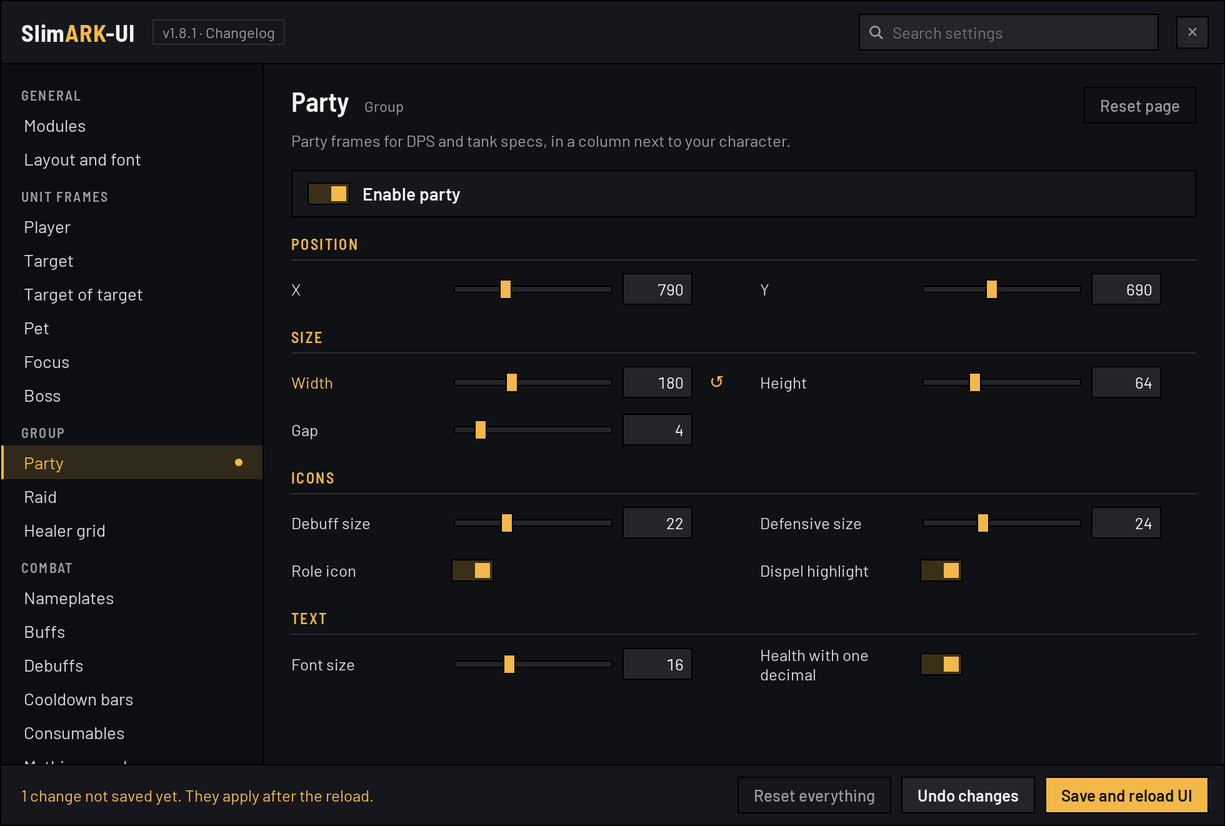
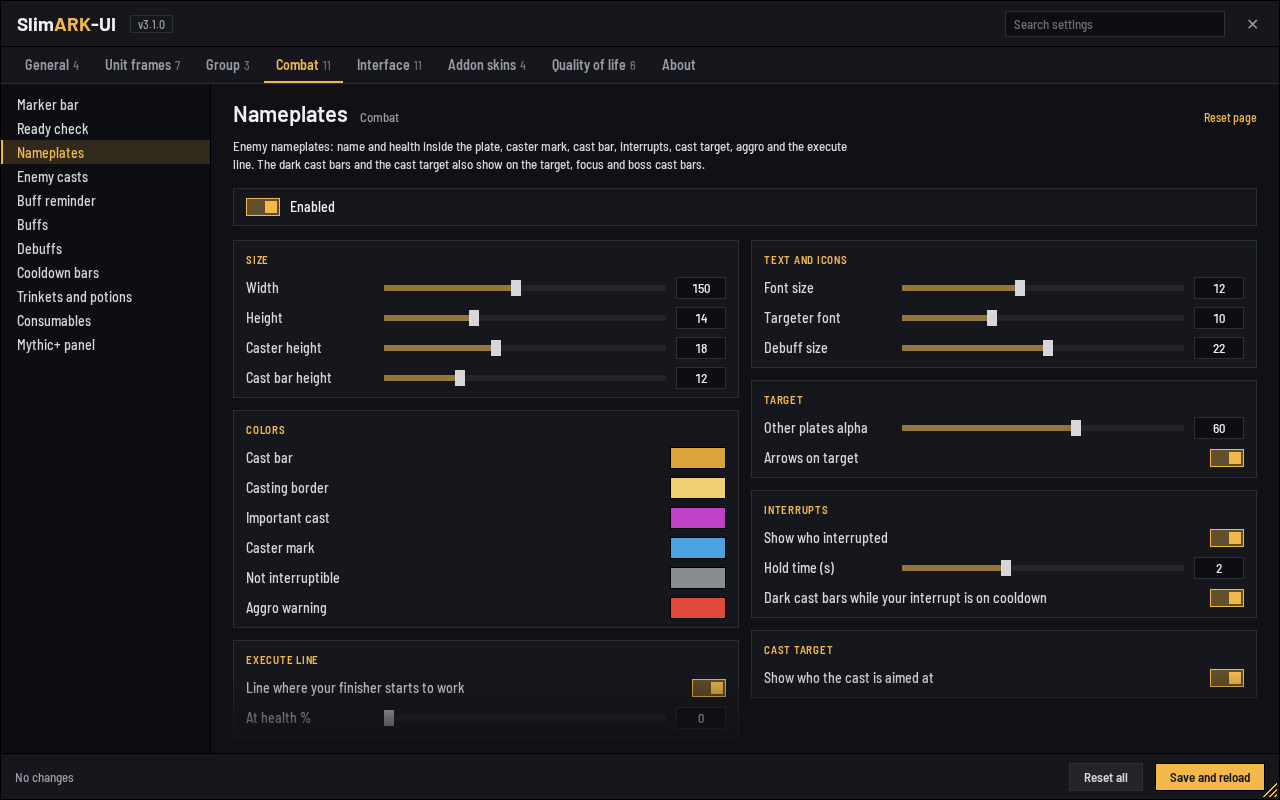
3.1.0: long sections in a full-width card with two row columns, docs and pictures
- Settings: a section with 8 or more rows takes the whole width with its rows in two columns,
  so pages like Modules and Blizzard windows are no longer than before the cards.
- README: the settings panel text and three new pictures of the window (Nameplates, Test mode,
  Blizzard windows); the rare alert click. Changelogs and version 3.1.0.

diff --git a/README.md b/README.md
@@ -67,10 +67,10 @@ Every element has its own switch. Of the new ones Alts, the addon CPU and the XP
 
 **Interface and system**
 
-- New pages: **Profiles** (export and import as text, a profile per character), **Macros** (focus kick, mouseover dispel, healthstone and potion), **Game settings**, **Quiet mode** and **Other**
+- New settings: **Profiles** (export and import as text, a profile per character), **macros** (focus kick, mouseover dispel, healthstone and potion), **game settings**, **quiet mode** and more
 - Blizzard's boss timeline placed by `/slimark apply`, Blizzard's damage meter in the SlimARK look
 - **AFK screen**, battleground timers for Arathi Basin, Battle for Gilneas and Deepwind Gorge
-- Off by default: screenshots of a timed key, a boss kill or an achievement; world map coordinates; a rare alert with one quiet sound per rare
+- Off by default: screenshots of a timed key, a boss kill or an achievement; world map coordinates; a rare alert with one quiet sound per rare; click it to target the rare
 
 ![Macros, game settings, profiles, quiet mode, rare alert, AFK screen and arena frames](assets/feature-3-0-system.png)
 
@@ -467,7 +467,9 @@ Type `/slimark`, click the SlimARK icon in the addon icons (top bar, right end),
 
 ![Settings panel](assets/feature-settings.png)
 
-- Every element has its own page in a list on the left: test mode, Blizzard windows, unit frames, party, raid, healer grid, nameplates, buffs, debuffs, cooldown bars, consumables, Mythic+, top bar, minimap, action bars, boss mods, Details!, chat, tooltip, loot, marker bar, ready check, auto quest, Group Finder, keystone, deleting items, error messages and quality of life features
+- The groups are tabs at the top: General, Unit frames, Group, Combat, Interface, Addon skins, Quality of life and About. The list on the left holds the pages of the chosen group, so every page is one or two clicks away
+- Drag the bottom right corner to make the window bigger or smaller. It opens at 1280 × 800 and keeps the size and the place you gave it
+- Each section of a page is a card. In a wide window the cards stand in two columns, and a long list such as the Blizzard windows switches takes the whole width
 - Sizes, positions, fonts, colors and on/off switches, each with a slider or a box you can type into
 - Where a feature has two ways to work, like the tooltip place or the marker bar place, you pick one on its page
 - Every page can be reset to the SlimARK defaults on its own

diff --git a/CHANGELOG.md b/CHANGELOG.md
@@ -1,5 +1,18 @@
 # Changelog
 
+## 3.1.0
+
+Settings window:
+
+- Bigger and resizable: it opens at 1280 × 800, the bottom right corner makes it bigger or smaller (down to 980 × 640), and it keeps its size and place
+- The groups are tabs at the top, and the list on the left holds only the chosen group's pages. Search still looks through every page, and while you type the list shows the matches of every group
+- Each section of a page is a card. In a wide window the cards stand in two columns; a long list, such as the Blizzard windows switches, takes the whole width with its rows in two columns
+- Quality of life in six pages instead of fourteen: Automation (auto quest, auto accept, keystone), Group Finder (with premade groups), Combat helpers (quick focus, combat log, macros), Less noise (quiet mode, error messages, cinematics, deleting items), Game settings and Other. Every setting is still there, and the old page names are the titles of their sections
+
+Rare alert:
+
+- A click on the alert targets the rare. In combat the game does not allow it: the click comes when the fight ends, if the alert is still up. After the click the alert goes
+
 ## 3.0.1
 
 - Keystone tooltip: this week's affixes have their own section, one per line, so the tooltip keeps the width of the season table
